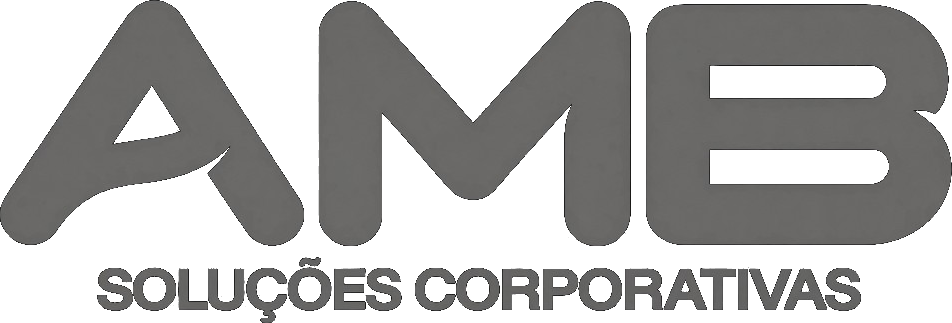
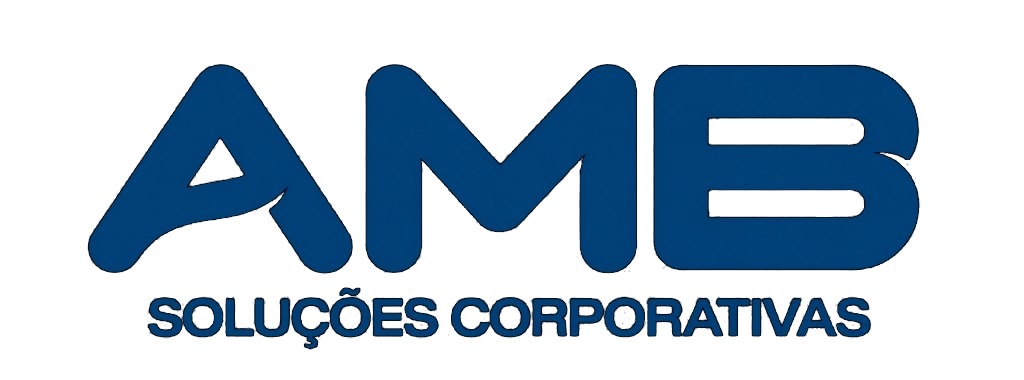
fix: replace the AMB mark with the current brand file
The grey leftover was the last outdated client logo; knock out the black matte so it matches the rest of the grid.

diff --git a/src/data/client-logos.ts b/src/data/client-logos.ts
@@ -25,7 +25,7 @@ export const clientLogos: ClientLogo[] = [
   { src: '/assets/brand/clients/oboticario.png', alt: 'oBoticário', width: 274, height: 112 },
   { src: '/assets/brand/clients/via-imagem.png', alt: 'Via Imagem', width: 1024, height: 425 },
   { src: '/assets/brand/clients/c-nivel.png', alt: 'C-Nível Energias', width: 1024, height: 341 },
-  { src: '/assets/brand/clients/amb.png', alt: 'AMB Soluções Corporativas', width: 952, height: 323 },
+  { src: '/assets/brand/clients/amb.png', alt: 'AMB Soluções Corporativas', width: 1024, height: 380 },
   { src: '/assets/brand/clients/bta.png', alt: 'BTA', width: 1024, height: 425 },
   { src: '/assets/brand/clients/gsc.png', alt: 'GSC Soluções em Fibra de Vidro', width: 1024, height: 425 },
   { src: '/assets/brand/clients/cot.png', alt: 'COT', width: 976, height: 323 },
@@ -42,7 +42,7 @@ export function resolveTestimonialBrandUrl(entry: { sys?: { id?: string }; brand
 }
 
 /**
- * True when the testimonial brand is already a muted grey mark and must skip invert.
+ * True when the testimonial brand is already a finished mark and must skip invert.
  */
 export function isNeutralTestimonialBrand(entry: { sys?: { id?: string } } | null | undefined): boolean {
   return entry?.sys?.id === AMB_TESTIMONIAL_ID;
